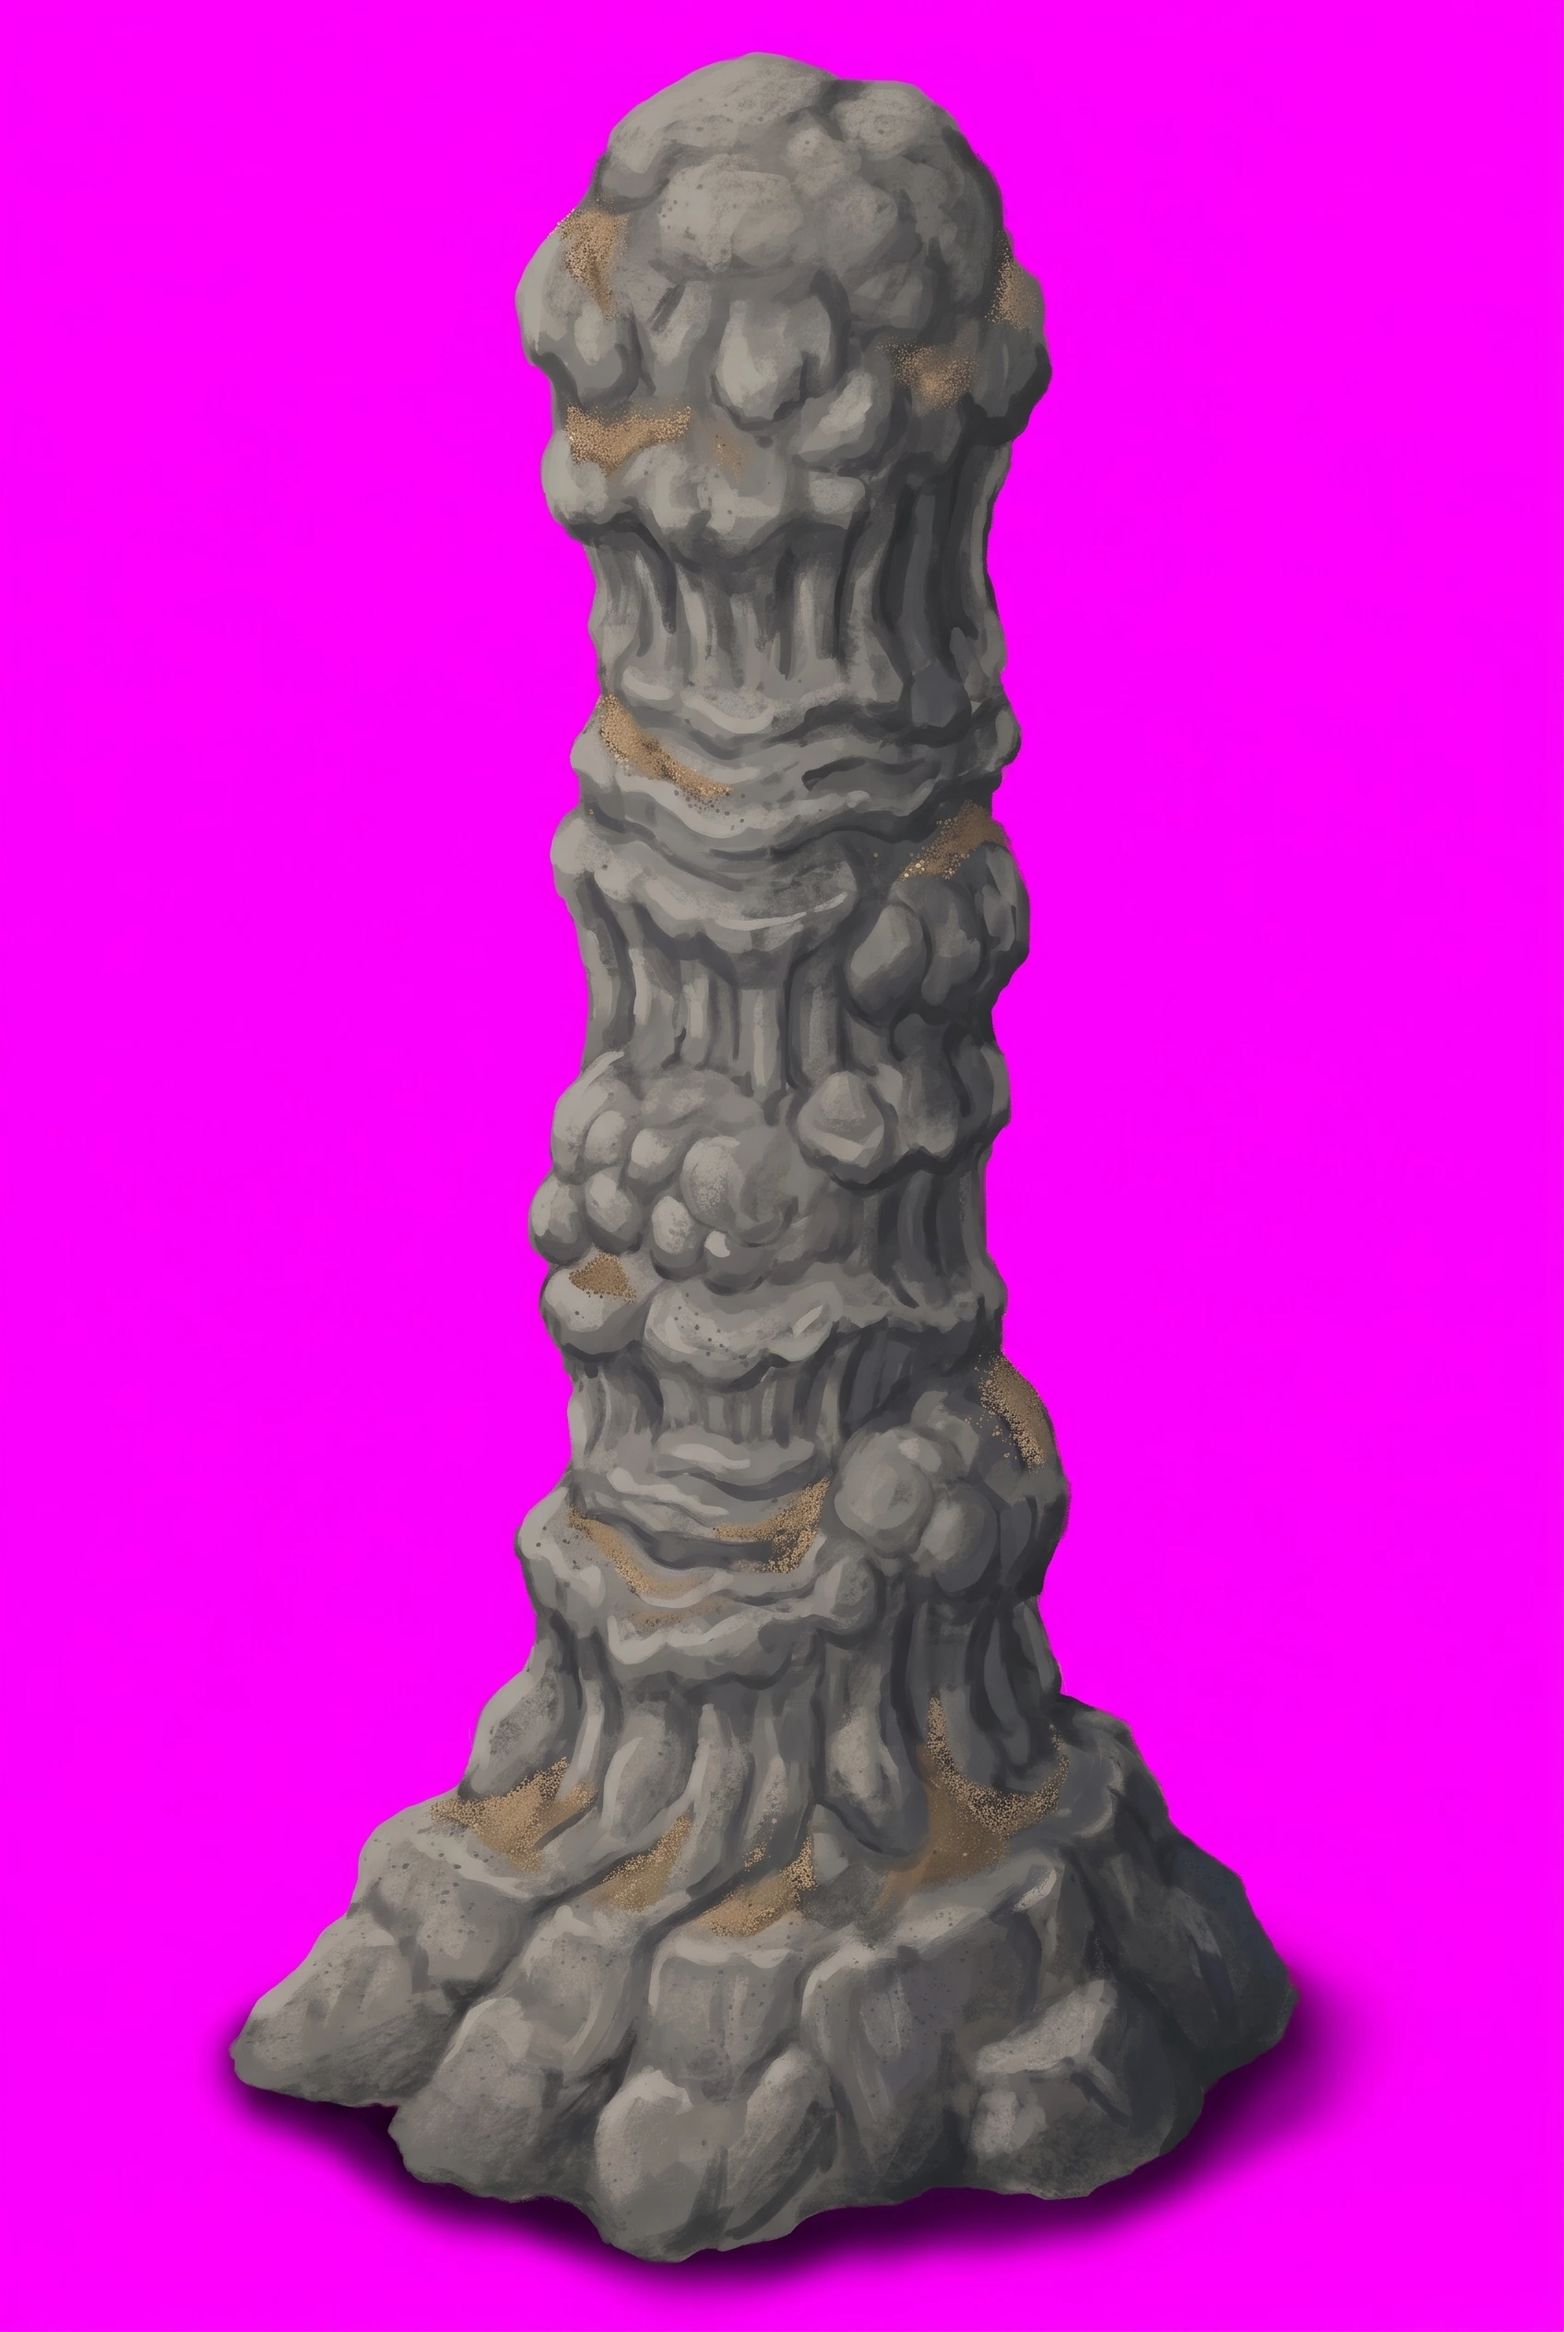
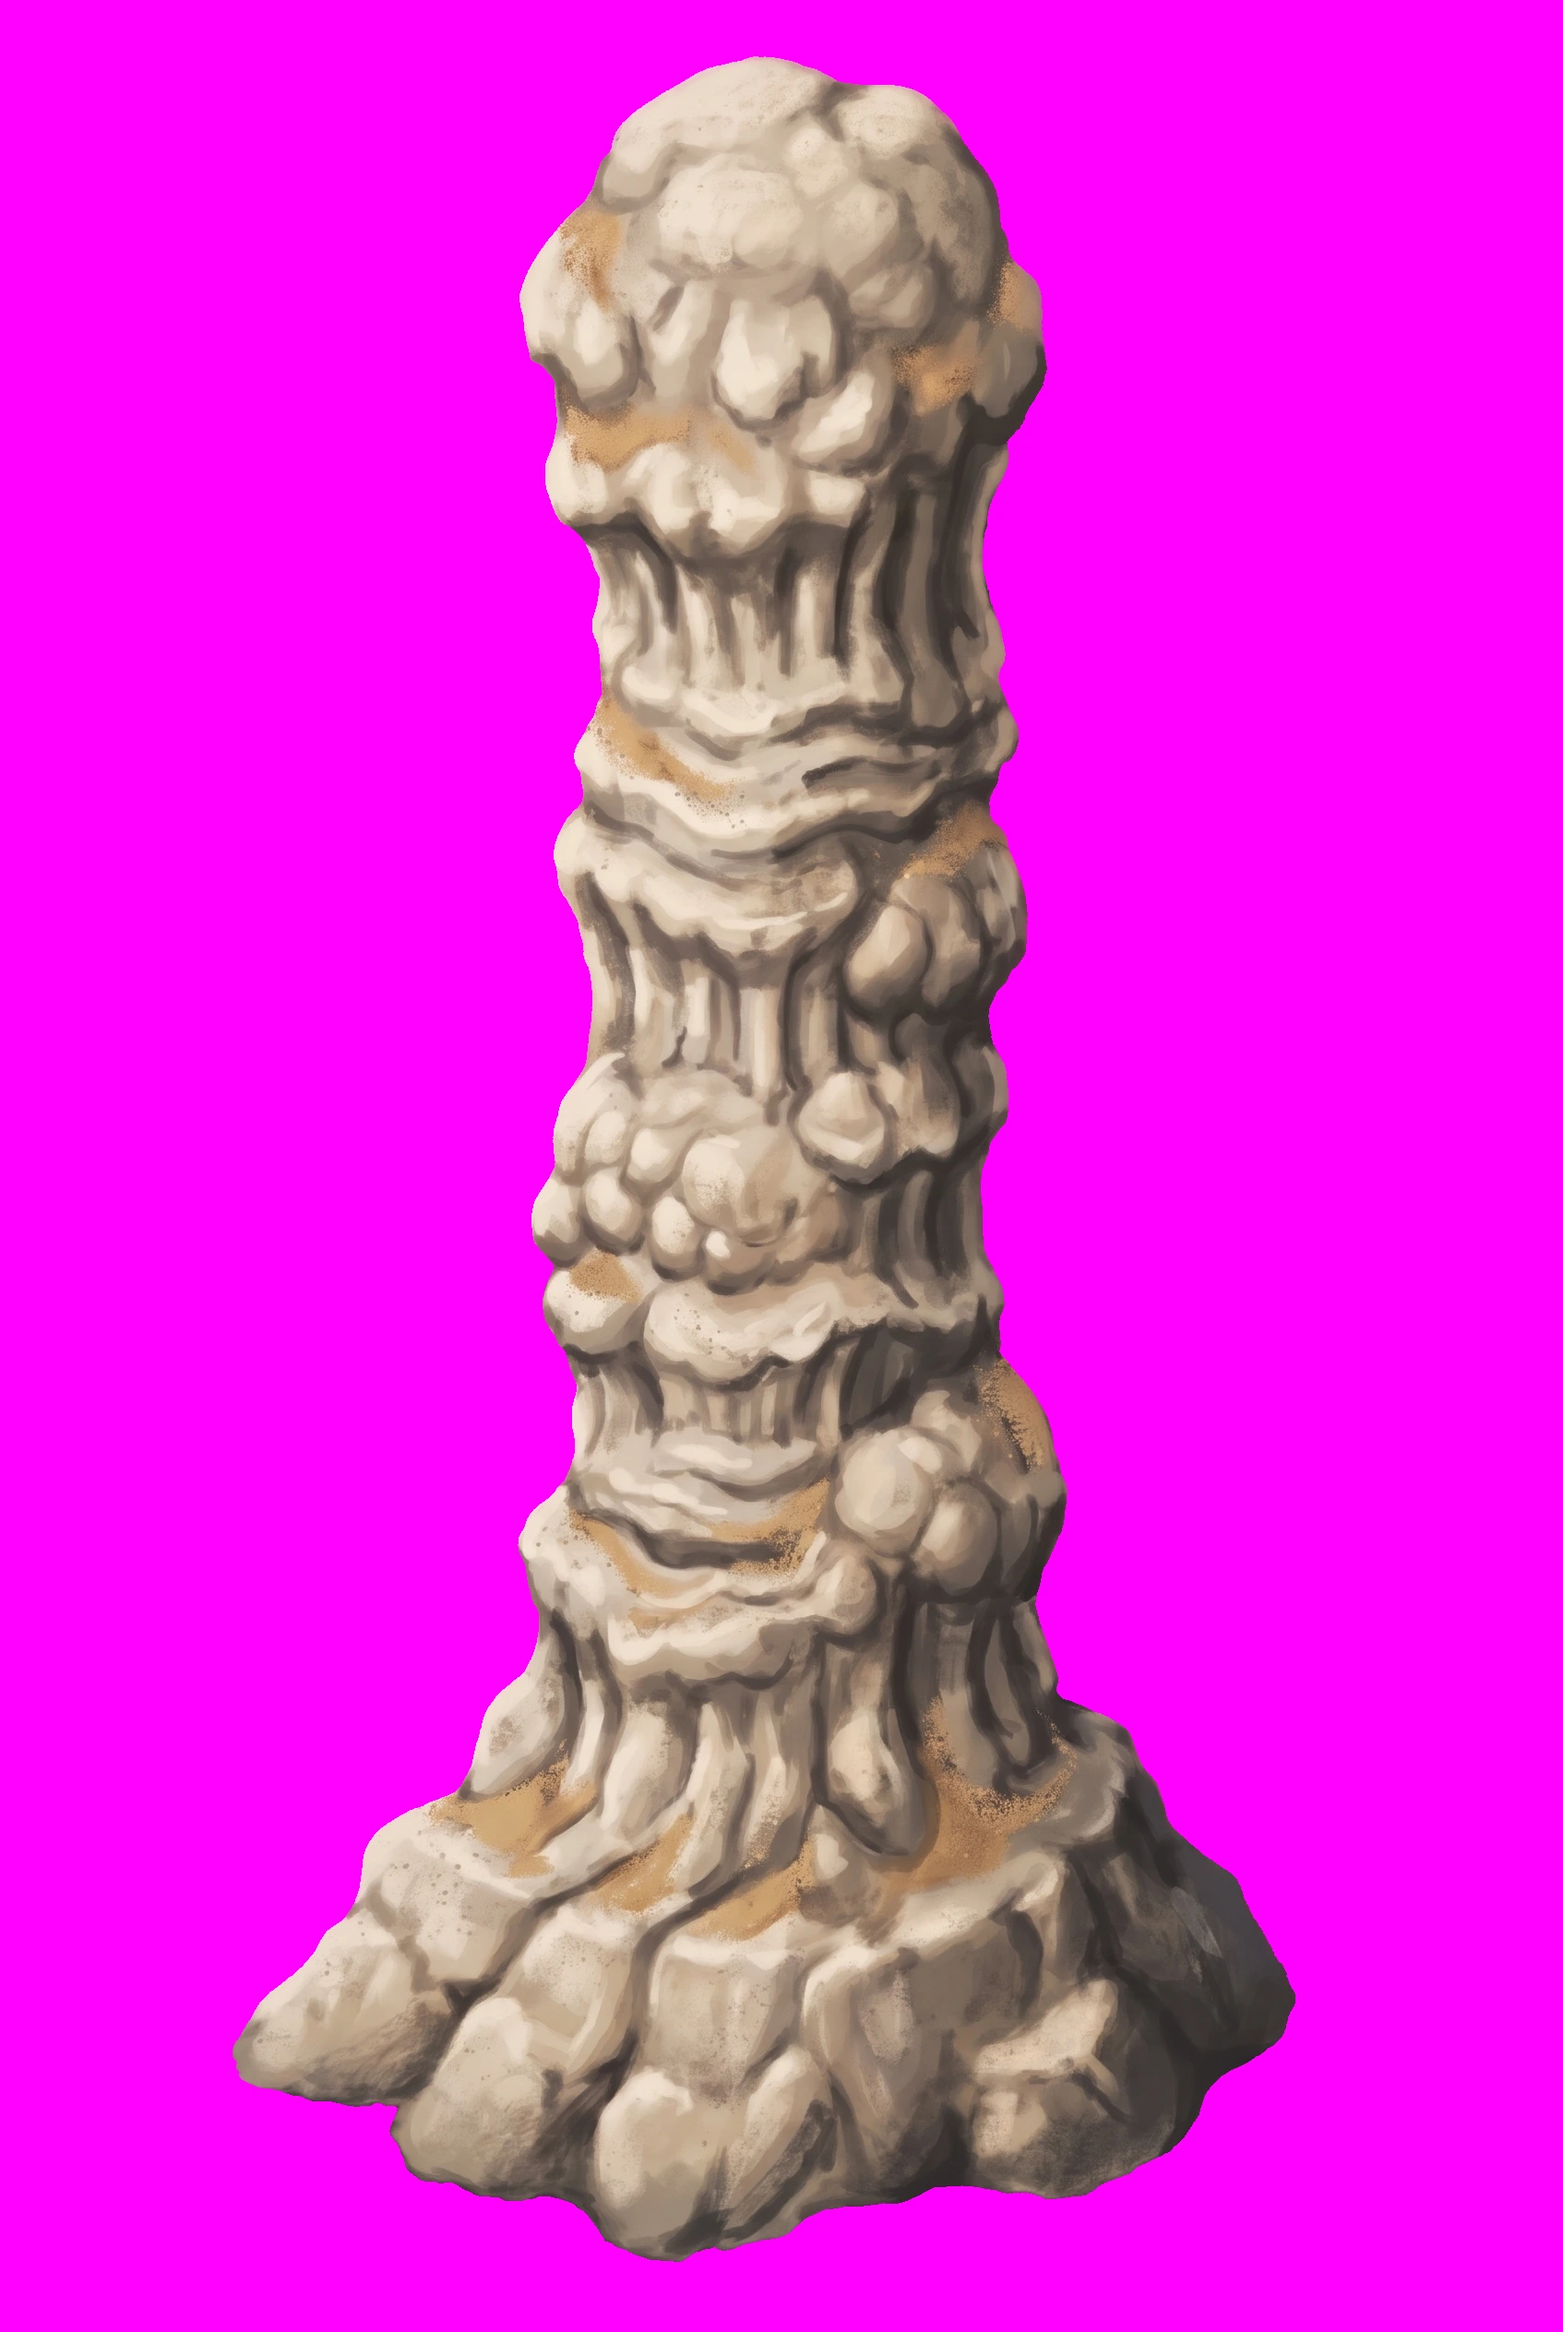
feat: the cave's dripstone column, repainted lit
Claude-Session: https://claude.ai/code/session_01NQk9Q1WZoZfDzoRioyXby1

Changed region(s): [[0.1228, 0.0, 0.8902, 1.0]]

diff --git a/docs/instructions/repaint-queue.md b/docs/instructions/repaint-queue.md
@@ -402,7 +402,9 @@ hieroglyphs, no watermark, no frame, no border.
 It is about one third as wide as it is tall: a column taller than a person.
 ```
 
-**Import:** `yarn import-tile art/masters/props/cave/pillar.webp --tier=cave --name=pillar --slot=prop --filter=smooth`
+**Prepare:** `art/deshadow.sh <render> clean.png art/masters/props/cave/pillar-shadow.png`, keep `clean.png` as the master (the shadow comes back magenta).
+
+**Import:** `yarn import-tile art/masters/props/cave/pillar.webp --tier=cave --name=pillar --slot=prop --filter=smooth --seat=art/masters/props/cave/pillar-shadow.png --seat-opacity=0.55`
 
 ### `cave/rubblePile` — a rockfall of broken limestone
 
